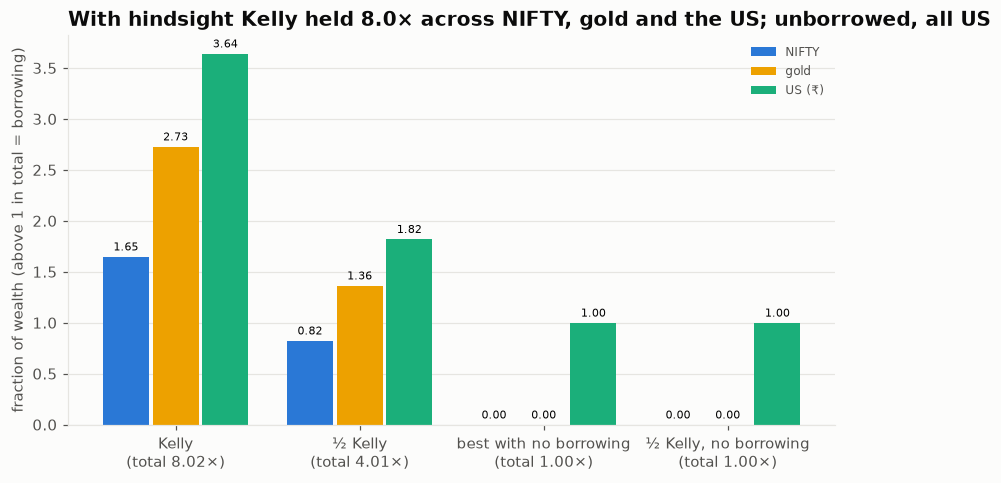
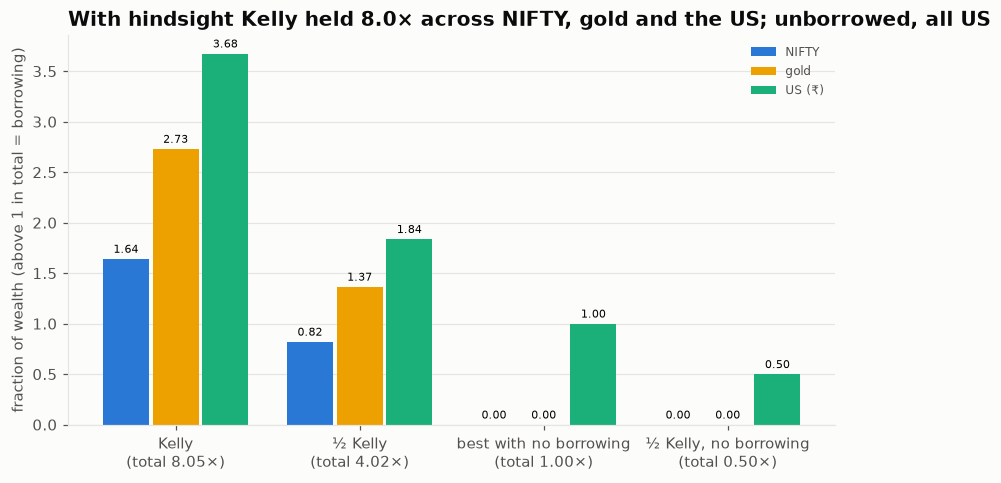
fix: make capped half Kelly half the position and remove look-ahead from the frictions replay
Review fixes. Half Kelly under a binding cap held the same as full Kelly; it now holds half the
capped position. The volatility target and the fixed half-Kelly fraction in section 6 came from
2009-26 data that includes the 2014-26 test; they now come from 2009-13 only (21%, 1.18×). Also:
EWMA annualises by calendar time, the simulator shows ruin for stakes of 100% or more, the signal
calculator uses the calibration intercept, and README wording now matches the numbers (99.6% of
Kelly paths halved; start date moved NIFTY's Kelly from 1.12 to 2.25 on the same index).

diff --git a/src/ks/simulator.html b/src/ks/simulator.html
@@ -25,7 +25,8 @@ $js
   const money = (x) => !Number.isFinite(x) ? "–" : x >= 1e11 ? "₹" + x.toExponential(1).replace("e+", " × 10^")
     : x >= 1e7 ? `₹${num(x / 1e7, 1)} crore` : x >= 1e5 ? `₹${num(x / 1e5, 1)} lakh`
     : "₹" + num(x, x < 10 ? 2 : 0);
-  const pct = (x) => (x * 100).toFixed(x > 0 && x < 0.01 ? 1 : 0) + "%";
+  const minus = (t) => t.replace("-", "−");  // a true minus sign for negatives
+  const pct = (x) => minus((x * 100).toFixed(x > 0 && x < 0.01 ? 1 : 0)) + "%";
   const base = () => ({
     paper_bgcolor: css("--surface"), plot_bgcolor: css("--surface"),
     font: { family: getComputedStyle(document.body).fontFamily, color: css("--text-2"), size: 13 },
@@ -44,30 +45,36 @@ $js
       return;
     }
     const f = Math.min(m * fk, 0.999);
-    note.textContent = `Kelly's bet: ${pct(fk)} of your money each time (edge ${pct(p * b - (1 - p))} per ₹1 ÷ odds ${b}). ` +
+    note.textContent = `Kelly’s bet: ${pct(fk)} of your money each time (edge ${pct(p * b - (1 - p))} per ₹1 ÷ odds ${b}). ` +
       `${PATHS.toLocaleString("en-IN")} simulated players, each starting with ₹1.`;
     const rows = [0.5, 1, 2].includes(m) ? [0.5, 1, 2] : [0.5, 1, 2, m].sort((a, c) => a - c);
     let chosen;
     out.innerHTML = rows.map((k) => {
-      const logw = simulate(Math.min(k * fk, 0.999), p, b, n, PATHS, 1), s = summarise(logw);
+      if (k * fk >= 1) {  // staking all your money or more: one loss wipes you out
+        if (k === m) chosen = null;
+        return `<tr${k === m ? ' class="pick"' : ""}><th scope="row">${k}× Kelly${k === m ? " (yours)" : ""}</th><td>${pct(k * fk)}</td>` +
+          `<td colspan="5">ruin: a single loss takes all your money</td></tr>`;
+      }
+      const logw = simulate(k * fk, p, b, n, PATHS, 1), s = summarise(logw);
       if (k === m) chosen = logw;
       return `<tr${k === m ? ' class="pick"' : ""}><th scope="row">${k}× Kelly${k === m ? " (yours)" : ""}</th><td>${pct(Math.min(k * fk, 0.999))}</td>` +
-        `<td>${(growthRate(Math.min(k * fk, 0.999), p, b) * 100).toFixed(2)}%</td><td>${money(s.typical)}</td><td>${money(s.mean)}</td>` +
+        `<td>${minus((growthRate(Math.min(k * fk, 0.999), p, b) * 100).toFixed(2))}%</td><td>${money(s.typical)}</td><td>${money(s.mean)}</td>` +
         `<td>${pct(s.halved)}</td><td>${pct(s.behind)}</td></tr>`;
     }).join("");
     el("paths-title").textContent = `${m}× Kelly: ₹1 over ${n.toLocaleString("en-IN")} bets`;
+    if (!chosen) { Plotly.purge("sim-paths"); el("paths-title").textContent += ": ruin on the first loss"; }
     const step = Math.max(1, Math.round(n / 200)), xs = [], lo = [], hi = [], mid = [];
-    for (let t = 0; t <= n; t += step) {
+    for (let t = 0; chosen && t <= n; t += step) {
       const col = chosen.map((path) => path[t]).sort((a, c) => a - c);
       xs.push(t); lo.push(Math.exp(quantile(col, 0.1))); hi.push(Math.exp(quantile(col, 0.9)));
       mid.push(Math.exp(col.reduce((a, c) => a + c, 0) / col.length));
     }
     const accent = css("--accent"), muted = css("--muted");
-    const samples = chosen.slice(0, 12).map((path, i) => ({
+    const samples = (chosen || []).slice(0, 12).map((path, i) => ({
       x: xs, y: xs.map((t) => Math.exp(path[t])), mode: "lines", line: { color: muted, width: 1 },
       opacity: 0.6, hoverinfo: "skip", showlegend: i === 0, name: "single players",
     }));
-    Plotly.react("sim-paths", [
+    if (chosen) Plotly.react("sim-paths", [
       { x: xs, y: hi, mode: "lines", line: { width: 0 }, hoverinfo: "skip", showlegend: false },
       { x: xs, y: lo, mode: "lines", line: { width: 0 }, fill: "tonexty", fillcolor: accent + "26", name: "middle 80%", hovertemplate: "bet %{x}: 10th percentile ₹%{y:.2f}<extra></extra>" },
       ...samples,
@@ -76,11 +83,11 @@ $js
       xaxis: axis("bets"), yaxis: axis("wealth from ₹1 (log scale)", { type: "log" }), hovermode: "x" }),
     { displaylogo: false, responsive: true });
     const gx = [], gy = [];
-    for (let k = 0; k <= 3.001; k += 0.02) { const ff = Math.min(k * fk, 0.999); gx.push(+k.toFixed(2)); gy.push(growthRate(ff, p, b) * 100); }
+    for (let k = 0; k <= 3.001 && k * fk < 1; k += 0.02) { gx.push(+k.toFixed(2)); gy.push(growthRate(k * fk, p, b) * 100); }
     const gm = growthRate(f, p, b) * 100, top = growthRate(fk, p, b) * 100;
     Plotly.react("sim-growth", [
       { x: gx, y: gy, mode: "lines", line: { color: accent, width: 2 }, name: "growth per bet", hovertemplate: "%{x}× Kelly: %{y:.3f}% per bet<extra></extra>" },
-      { x: [m], y: [gm], mode: "markers", marker: { color: css("--text"), size: 10 }, name: "your bet size", hovertemplate: "%{x}× Kelly: %{y:.3f}% per bet<extra></extra>" },
+      { x: m * fk < 1 ? [m] : [], y: m * fk < 1 ? [gm] : [], mode: "markers", marker: { color: css("--text"), size: 10 }, name: "your bet size", hovertemplate: "%{x}× Kelly: %{y:.3f}% per bet<extra></extra>" },
     ], Object.assign(base(), {
       xaxis: axis("bet size, × Kelly"), yaxis: axis("growth per bet, %", { range: [-top * 2.5, top * 1.4] }), hovermode: "closest" }),
     { displaylogo: false, responsive: true });

diff --git a/src/ks/stock.html b/src/ks/stock.html
@@ -16,14 +16,14 @@
   const css = (v) => getComputedStyle(document.documentElement).getPropertyValue(v).trim();
   const sym = el("st-sym");
   sym.innerHTML = D.symbols.map((s) => `<option value="${s}">${D.labels[s] || s}</option>`).join("");
-  const pct = (x) => (x * 100).toFixed(1) + "%";
+  const pct = (x) => (x * 100).toFixed(1).replace("-", "−") + "%";
   const update = () => {
     const st = D.stats[sym.value][el("st-win").value];
     if (!st) { el("st-out").innerHTML = ""; Plotly.purge("st-chart"); el("st-note").textContent = "Not enough history in this window for this holding."; return; }
     const [mu, sigma, years] = st, rf = D.rf, k = kellyContinuous(mu, sigma, rf);
     const best = optimalMultiple((mu - rf) / sigma, years);
     el("st-note").textContent = `Average return ${pct(mu)} a year, volatility ${pct(sigma)}, cash ${pct(rf)}; ` +
-      `Sharpe ratio ${((mu - rf) / sigma).toFixed(2)}. Kelly’s fraction: ${k.toFixed(2)}` +
+      `Sharpe ratio ${((mu - rf) / sigma).toFixed(2).replace("-", "−")}. Kelly’s fraction: ${k.toFixed(2).replace("-", "−")}` +
       (k <= 0 ? " — no edge over cash in this window: Kelly holds none." : k > 1 ? ` — borrow to hold ${k.toFixed(1)}× your money.` : ".") +
       (k > 1 ? ` Borrowing at Zerodha’s margin rate (${pct(D.mtf)}) instead, Kelly’s fraction is ${kellySpread(mu, sigma, rf, D.mtf).toFixed(2)}.` : "") +
       (k > 0 ? ` That average comes from ${years.toFixed(1)} years of data; with that much noise the best bet is ${best.toFixed(2)}× the estimate, ${(best * k).toFixed(2)} of your money.` : "") +

diff --git a/src/ks/signal.html b/src/ks/signal.html
@@ -14,10 +14,10 @@
   const update = () => {
     const p = parseFloat(el("sg-p").value) / 100, b = parseFloat(el("sg-b").value), s = parseFloat(el("sg-s").value);
     if (!(p > 0 && p < 1 && b > 0 && s >= 0)) { el("sg-out").innerHTML = ""; el("sg-note").textContent = "Enter a chance between 1% and 99%, a win above ₹0 and a slope of 0 or more."; return; }
-    const pc = recalibrate(p, 0, s), raw = kellyFraction(p, b), cal = kellyFraction(pc, b);
+    const pc = recalibrate(p, $intercept, s), raw = kellyFraction(p, b), cal = kellyFraction(pc, b);
     el("sg-note").textContent = `Recalibrated chance: ${pct(pc)}. A slope of 1 means the model is calibrated; below 1 it is overconfident.`;
     const rows = [["Kelly on the model’s chance", raw], ["½ Kelly on the model’s chance", raw / 2], ["Kelly on the recalibrated chance", cal], ["½ Kelly on the recalibrated chance", cal / 2]];
-    el("sg-out").innerHTML = rows.map(([n, f]) => `<tr><th scope="row">${n}</th><td>${pct(f)}</td><td>${f > 0 ? (growthRate(Math.min(f, 0.999), pc, b) * 100).toFixed(3) + "%" : "no bet"}</td></tr>`).join("");
+    el("sg-out").innerHTML = rows.map(([n, f]) => `<tr><th scope="row">${n}</th><td>${pct(f)}</td><td>${f > 0 ? (growthRate(Math.min(f, 0.999), pc, b) * 100).toFixed(3).replace("-", "−") + "%" : "no bet"}</td></tr>`).join("");
   };
   el("sig").addEventListener("input", update);
   update();

diff --git a/src/ks/reports.py b/src/ks/reports.py
@@ -205,7 +205,7 @@ def report_stock(out_dir: Path) -> dict:
                       "Sharpe": round((s["mu"] - RF) / s["sigma"], 2),
                       "years": round(s["years"], 1),
                       "Kelly": round(fstar[k], 2)} for k, s in stats.items()},
-        "realised growth at 0 / 0.5 / 1 / f* / 2f* (%/yr)": {
+        "realised growth at 0 / 0.5 / 1 / f*/2 / f* / 2f* (%/yr)": {
             k: [round(levered_growth(r, f, RF) * 100, 1)
                 for f in (0, 0.5, 1, fstar[k] / 2, fstar[k], 2 * fstar[k])]
             for k, r in series.items()},
@@ -496,7 +496,14 @@ def weekly_assets() -> pd.DataFrame:
 
 def report_multi(out_dir: Path) -> dict:
     """Kelly across NIFTY, gold and the US: hindsight weights, growth, and a walk-forward."""
-    from ks.multi import capped_kelly, growth_multi, kelly_weights, tangency, walk_forward_multi
+    from ks.multi import (
+        capped_kelly,
+        fractional_kelly,
+        growth_multi,
+        kelly_weights,
+        tangency,
+        walk_forward_multi,
+    )
 
     W = weekly_assets()
     years = (W.index[-1] - W.index[0]).days / 365.25
@@ -508,7 +515,7 @@ def report_multi(out_dir: Path) -> dict:
     s_tan = float(tan @ (mu - RF) / np.sqrt(tan @ cov @ tan))
     variants = {"Kelly": k, "½ Kelly": k / 2,
                 "best with no borrowing": capped_kelly(mu, cov, RF, 1),
-                "½ Kelly, no borrowing": capped_kelly(mu, cov / 0.5, RF, 1)}
+                "½ Kelly, no borrowing": fractional_kelly(mu, cov, RF, 0.5, 1)}
 
     fig, ax = plt.subplots(figsize=(9, 4.6))
     xb = np.arange(len(variants))
@@ -622,13 +629,15 @@ def report_frictions(out_dir: Path) -> dict:
     def run(target, rb=MTF_RATE, band=0.0, costs=True):
         res = run_strategy(x, target.reindex(x.index), RF, rb, 1e6, band, costs)
         g, d = _growth_dd(res["wealth"])
-        vol = float(np.log(res["wealth"]).diff().std() * np.sqrt(247))
+        vol = float(np.log(res["wealth"]).diff().std() * np.sqrt(st["per_year"]))
         return {"growth": g, "worst": d, "vol": vol, "avg f": float(res["fraction"].mean()),
                 "trades a year": res["trades"] / years, "costs a year": res["costs"] / years,
                 "wealth": res["wealth"]}
 
     const = lambda v: pd.Series(v, index=r.index)  # noqa: E731
-    half = round(k_one / 2, 2)
+    pre = annual_stats(r[r.index < EVAL_START])  # inputs from before the test period only
+    half = round(kelly_continuous(pre["mu"], pre["sigma"], RF) / 2, 2)
+    target = round(pre["sigma"], 3)
     lev = {"borrow at 6.5%, no costs": run(const(half), RF, costs=False),
            "borrow at 14.6%, no costs": run(const(half), costs=False),
            "+ ETF costs, reset daily": run(const(half)),
@@ -654,13 +663,14 @@ def report_frictions(out_dir: Path) -> dict:
                  f"daily trading {lev['+ ETF costs, reset daily']['costs a year'] * 100:.1f}")
     plots.save(fig, out_dir, "fric_costs")
 
-    sig_next = ewma_vol(r).shift(-1).ffill()  # tomorrow's forecast from returns up to today
+    sig_next = ewma_vol(r, per_year=st["per_year"]).shift(-1).ffill()  # tomorrow's, from today
     mu5 = r.rolling("1826D").mean() * st["per_year"]  # past five years' average return
     dyn = {"hold 1×": hold,
-           "volatility target 16.5%, up to 1×": run((0.165 / sig_next).clip(upper=1), band=0.1),
+           f"volatility target {target:.0%}, up to 1×": run((target / sig_next).clip(upper=1),
+                                                             band=0.1),
            "½ Kelly with EWMA volatility, up to 1×": run(
                (0.5 * (mu5 - RF) / sig_next**2).clip(0, 1), band=0.1),
-           "volatility target 16.5%, up to 1.5×": run((0.165 / sig_next).clip(upper=1.5),
+           f"volatility target {target:.0%}, up to 1.5×": run((target / sig_next).clip(upper=1.5),
                                                        band=0.1)}
     fig, ax = plt.subplots(figsize=(9, 4.8))
     for (n, v), c in zip(dyn.items(), (plots.TEXT, plots.SERIES[2], plots.SERIES[0],
@@ -671,7 +681,7 @@ def report_frictions(out_dir: Path) -> dict:
     ax.set_ylabel("wealth from ₹1 in January 2014 (log scale)")
     _rupee_log(ax)
     ax.legend(loc="upper left", fontsize=8)
-    vt = dyn["volatility target 16.5%, up to 1×"]
+    vt = dyn[f"volatility target {target:.0%}, up to 1×"]
     cost = (hold["growth"] - vt["growth"]) * 100
     ax.set_title(f"Sizing by forecast volatility cut the worst fall from {-hold['worst']:.0%} to "
                  f"{-vt['worst']:.0%} for {cost:.1f} points a year")
@@ -683,7 +693,8 @@ def report_frictions(out_dir: Path) -> dict:
         "Kelly: one rate / lend 6.5% borrow 14.6%": (round(k_one, 2), round(k_spread, 2)),
         "hindsight growth at Kelly": (f"{growth_spread(k_one, mu, sig, RF, RF):.1%}",
                                       f"{growth_spread(k_spread, mu, sig, RF, MTF_RATE):.1%}"),
-        "half-Kelly constant fraction": half,
+        "before 2014 (mu, sigma, Kelly/2 used, vol target used)": (
+            round(pre["mu"], 4), round(pre["sigma"], 4), half, target),
         "2014-26 levered": {n: {kk: round(v[kk], 4) for kk in keep} for n, v in lev.items()},
         "2014-26 dynamic": {n: {kk: round(v[kk], 4) for kk in keep} for n, v in dyn.items()},
     }

diff --git a/src/ks/multi.py b/src/ks/multi.py
@@ -37,6 +37,12 @@ def capped_kelly(mu, cov, rf: float, max_gross: float = 1.0) -> np.ndarray:
     return res.x
 
 
+def fractional_kelly(mu, cov, rf: float, multiple: float, max_gross: float) -> np.ndarray:
+    """`multiple` × the best long-only position with gross at most `max_gross`: half Kelly holds
+    half of it (the rest in cash), even when the cap binds."""
+    return multiple * capped_kelly(mu, cov, rf, max_gross)
+
+
 def walk_forward_multi(W, rf: float, multiple: float, window_years: float, max_gross: float,
                        start: str, fixed=None) -> dict:
     """Weekly returns W (assets in columns). At each month's last week, estimate mean and
@@ -56,7 +62,7 @@ def walk_forward_multi(W, rf: float, multiple: float, window_years: float, max_g
         past = W[(W.index <= t) & (W.index > t - pd.DateOffset(years=window_years))]
         per_year = (len(past) - 1) / ((past.index[-1] - past.index[0]).days / 365.25)
         mu, cov = past.mean().to_numpy() * per_year, past.cov().to_numpy() * per_year
-        decided[t] = capped_kelly(mu, cov / multiple, rf, max_gross)  # c × Kelly = cov / c
+        decided[t] = fractional_kelly(mu, cov, rf, multiple, max_gross)
     weights = (pd.DataFrame(decided, index=W.columns).T.reindex(W.index).ffill().shift(1))
     days = W.index.to_series().diff().dt.days.fillna(0).to_numpy()
     cash = (1 + rf) ** (days / 365) - 1

diff --git a/src/ks/site.py b/src/ks/site.py
@@ -22,7 +22,8 @@ JS = (HERE / "kelly.js").read_text(encoding="utf-8")
 SIMULATOR = (HERE / "simulator.html").read_text(encoding="utf-8")
 STOCK = (HERE / "stock.html").read_text(encoding="utf-8")
 SIGNAL = (HERE / "signal.html").read_text(encoding="utf-8")
-SLOPE = 0.56  # the signal's out-of-sample calibration slope, 2013-2026 (ks report signal)
+SLOPE, INTERCEPT = 0.56, -0.004  # the signal's out-of-sample calibration, 2013-2026
+# (ks report signal)
 LABELS = {"NIFTYBEES": "NIFTY 50 ETF (NIFTYBEES)", "GOLDBEES": "Gold ETF (GOLDBEES)"}
 WINDOWS = {"1y": 1, "3y": 3, "5y": 5, "2009": None}
 PAGE = Template((HERE / "page.html").read_text(encoding="utf-8"))
@@ -94,7 +95,7 @@ def multi_figure(data: pd.DataFrame) -> go.Figure:
 
 
 def signal_section(data: pd.DataFrame) -> str:
-    return SIGNAL.replace("$slope", f"{SLOPE:g}")
+    return SIGNAL.replace("$slope", f"{SLOPE:g}").replace("$intercept", f"{INTERCEPT:g}")
 
 
 SECTIONS = [

diff --git a/src/ks/frictions.py b/src/ks/frictions.py
@@ -59,9 +59,13 @@ def etf_trade_cost(buy: float, sell: float, capital: float, mtf: bool = False,
     return float(cost)
 
 
-def ewma_vol(r: pd.Series, lam: float = 0.94, per_year: float = 247, seed: int = 30) -> pd.Series:
+def ewma_vol(r: pd.Series, lam: float = 0.94, per_year: float | None = None,
+             seed: int = 30) -> pd.Series:
     """Annualised volatility forecast for each day from the returns before it (RiskMetrics EWMA,
-    seeded with the first `seed` days); NaN until then."""
+    seeded with the first `seed` days); NaN until then. `per_year` defaults to the calendar rate
+    of the series' own dates."""
+    if per_year is None:
+        per_year = (len(r) - 1) / ((r.index[-1] - r.index[0]).days / 365.25)
     x = r.to_numpy()
     out = np.full(len(x), np.nan)
     v = float(np.mean(x[:seed] ** 2))

diff --git a/src/ks/signal.py b/src/ks/signal.py
@@ -3,8 +3,8 @@
 The signal: each month end, for today's NIFTY 50 stocks, the chance a stock beats the median of the
 same stocks next month, from a logistic model of three cross-sectional ranks (12-to-1-month
 momentum, last month's return, 60-day volatility), refitted each month on earlier months only.
-Using the median of the same stocks as the bar keeps survivorship (today's members did well) out of
-the label.
+Using the median of the same stocks as the bar keeps the survivors' average outperformance (today's
+members did well) out of the label; it does not rule out survivorship shaping the features' value.
 
 Calibration: fit P(win) = sigmoid(a + slope·logit(p)) on past predictions. A slope below 1 means the
 model is overconfident: its probabilities sit too far from 50%. For an even-money bet Kelly stakes

diff --git a/src/ks/bets.py b/src/ks/bets.py
@@ -12,6 +12,8 @@ import numpy as np
 
 
 def kelly_fraction(p: float, b: float) -> float:
+    if b <= 0:
+        return 0.0
     return max(0.0, p - (1 - p) / b)
 
 
@@ -46,6 +48,8 @@ def summarise(logw: np.ndarray) -> dict:
 def halving_probability(multiple: float, x: float = 0.5) -> float:
     """Chance wealth ever falls to x of its start when betting `multiple` × Kelly, in the
     continuous (many small bets) limit: x^(2/multiple − 1). At 2× Kelly or more it is certain."""
+    if multiple <= 0:
+        return 0.0
     if multiple >= 2:
         return 1.0
     return float(x ** (2 / multiple - 1))

diff --git a/tests/test_bets.py b/tests/test_bets.py
@@ -40,3 +40,8 @@ def test_halving_probability_continuous_limit():
     assert halving_probability(1.0) == pytest.approx(0.5)
     assert halving_probability(0.5) == pytest.approx(0.125)
     assert halving_probability(2.0) == 1.0
+
+
+def test_degenerate_inputs_do_not_raise():
+    assert kelly_fraction(0.6, 0.0) == 0.0
+    assert halving_probability(0.0) == 0.0

diff --git a/src/ks/drawdown.py b/src/ks/drawdown.py
@@ -6,7 +6,7 @@ normal amount, so the chance that c1 ends ahead after T years is
 
     Φ( √T · S · (1 − (c1 + c2)/2) )
 
-Kelly against half Kelly is Φ(√T·S/4): with S 0.45 that needs 214 years for 95% confidence.
+Kelly against half Kelly is Φ(√T·S/4): with S 0.45 that needs 213 years for 95% confidence.
 """
 
 import numpy as np
